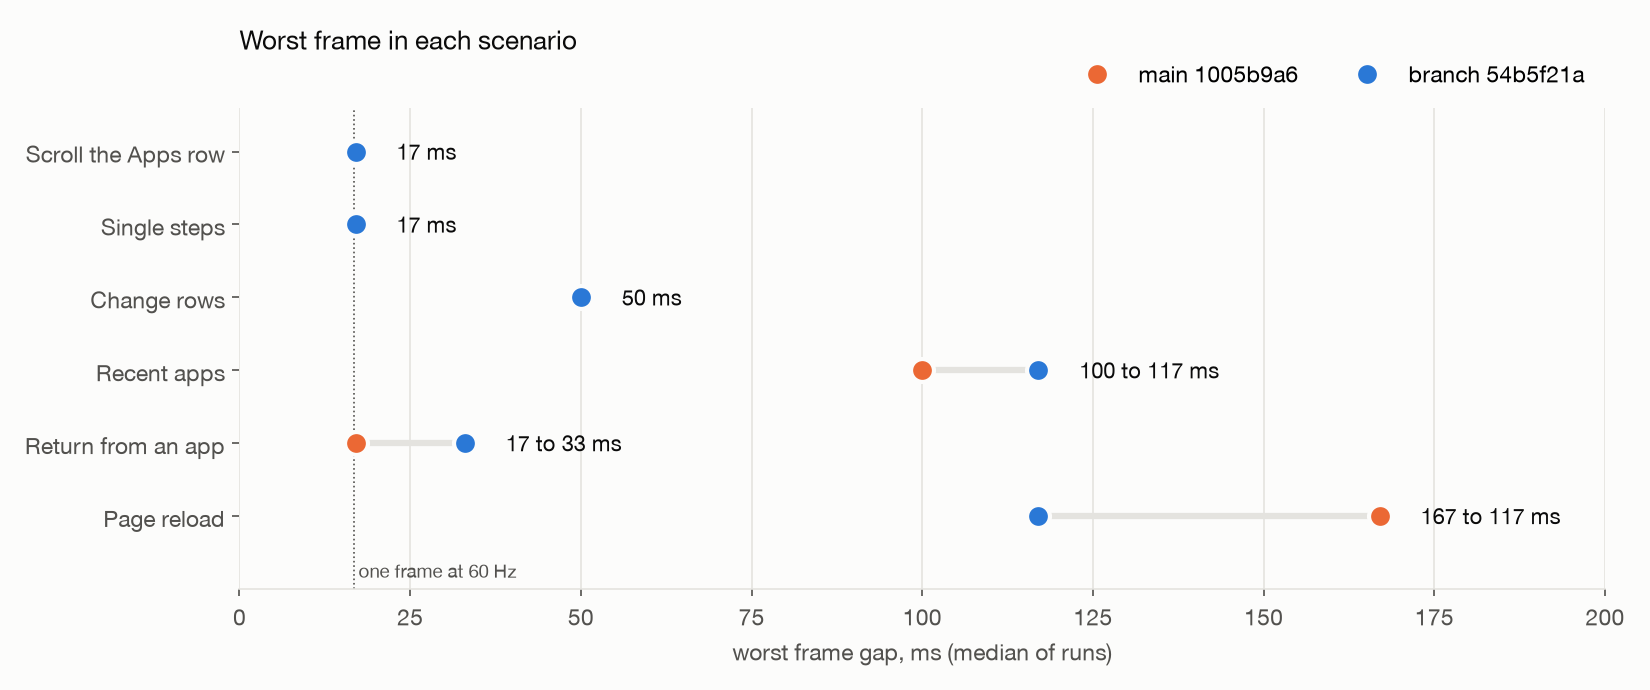
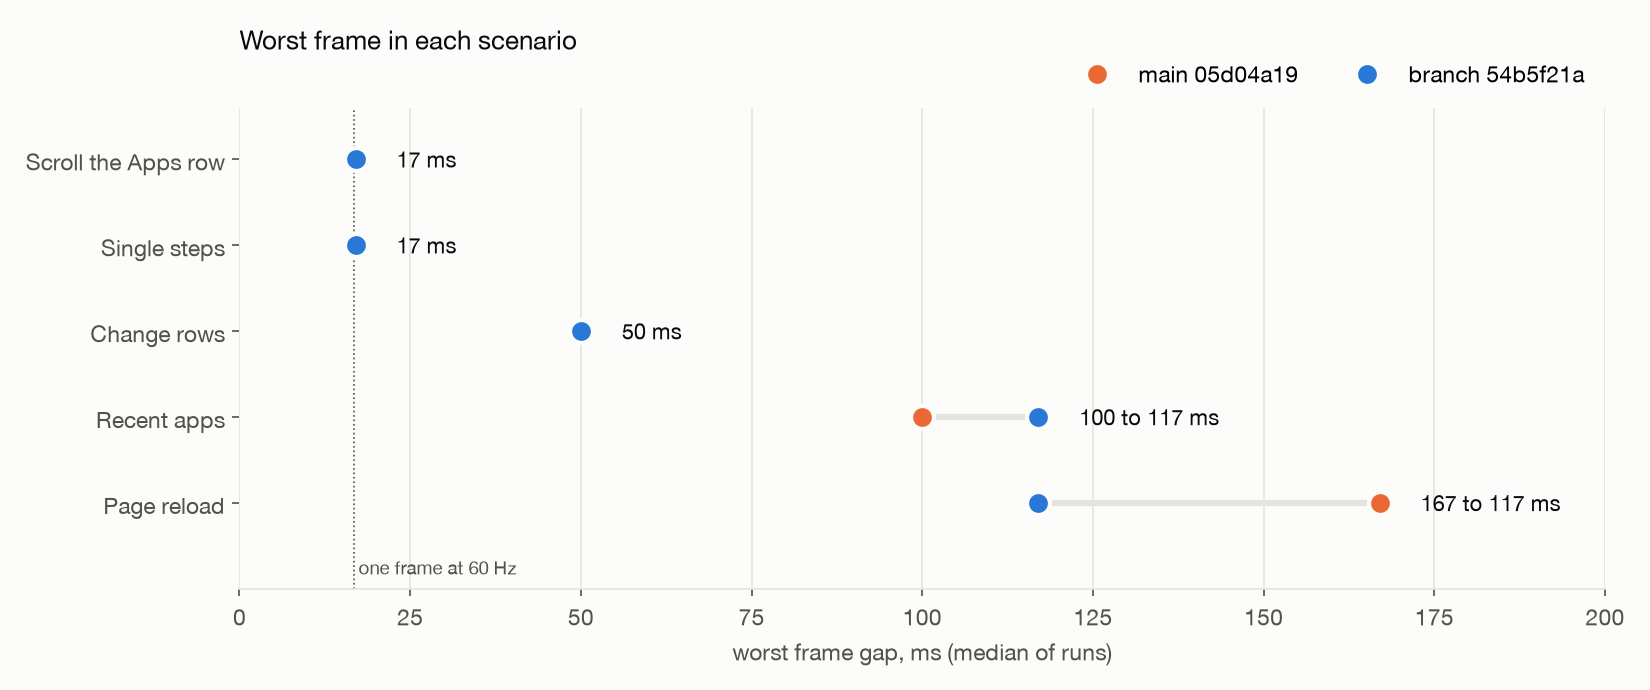
Return runs left out; functional before and after on the TV; the playlist's name blacked out
Claude-Session: https://claude.ai/code/session_01QHnVP81921LPuzdswiP7pV

diff --git a/bench_charts.py b/bench_charts.py
@@ -35,10 +35,6 @@ def boot_ms(r):
 
 # (title, unit, scenario, extractor)
 PANELS = [
-    ('Catalogue reply on a return', 'ms', 'return', req_max('/api/home/catalogue')),
-    ('Channel guide reply on a return', 'ms', 'return', req_max('/api/home/guide')),
-    ('Row redraws per return', 'render() calls', 'return', fn_n('render')),
-    ('Time redrawing rows per return', 'ms', 'return', fn_ms('render')),
     ('Rows rebuilt after a page reload', 'rows replaced', 'cold', lambda r: r['rowsReplaced']),
     ('Longest task after a page reload', 'ms', 'cold', longest),
     ('Worst frame after a page reload', 'ms', 'cold', lambda r: r['worst']),
@@ -46,7 +42,7 @@ PANELS = [
 ]
 
 def headline(b, a, lb, la, out):
-    fig, axes = plt.subplots(2, 4, figsize=(16, 8.4))
+    fig, axes = plt.subplots(1, 4, figsize=(16, 4.8))
     for ax, (title, unit, sc, fn) in zip(axes.flat, PANELS):
         vb, va = values(b, sc, fn), values(a, sc, fn)
         mb, ma = (st.median(vb) if vb else 0), (st.median(va) if va else 0)
@@ -108,7 +104,8 @@ def histogram(b, a, lb, la, scenarios, out, title):
     fig.savefig(out, dpi=150)
 
 def worst(b, a, lb, la, out):
-    scs = ['scroll', 'steps', 'rows', 'recents', 'return', 'cold']
+    # Return runs are left out: the browser was not always in front (see README).
+    scs = ['scroll', 'steps', 'rows', 'recents', 'cold']
     names = {'scroll': 'Scroll the Apps row', 'steps': 'Single steps', 'rows': 'Change rows', 'recents': 'Recent apps',
              'return': 'Return from an app', 'cold': 'Page reload'}
     fig, ax = plt.subplots(figsize=(11, 4.6))

diff --git a/bench_table.py b/bench_table.py
@@ -5,13 +5,6 @@ def load(d): return json.loads(subprocess.check_output([sys.executable, os.path.
 b, a = load(sys.argv[1]), load(sys.argv[2])
 def req(name): return lambda r: r['req'][name]['max'] if name in r['req'] else None
 ROWS = [
-    ('Return', 'return', 'Catalogue reply, ms', req('/api/home/catalogue')),
-    ('Return', 'return', 'Channel guide reply, ms', req('/api/home/guide')),
-    ('Return', 'return', 'What is on (/now) reply, ms', req('/api/home/now')),
-    ('Return', 'return', 'Row redraws (render calls)', lambda r: r['fn'].get('render', {}).get('n', 0)),
-    ('Return', 'return', 'Time in render, ms', lambda r: round(r['fn']['render']['ms']) if 'render' in r['fn'] else 0),
-    ('Return', 'return', 'luna-send started (all, background included)', lambda r: r['lunaApp']),
-    ('Return', 'return', 'Worst frame, ms', lambda r: r['worst']),
     ('Cold start', 'cold', 'Navigation to first frame, ms', lambda r: r['boot']['firstFrame'] - r['boot']['navStart'] if r['boot'] else None),
     ('Cold start', 'cold', 'First render, ms', lambda r: r['boot']['firstRenderMs'] if r['boot'] else None),
     ('Cold start', 'cold', 'Rows replaced after first paint', lambda r: r['rowsReplaced']),

diff --git a/bench_parse.py b/bench_parse.py
@@ -15,6 +15,7 @@ def parse(path):
             run['forks'] = int(line.split()[1])
         elif line.startswith('frames '):
             f = json.loads(line[7:])
+            run.setdefault('windows', []).append(f.get('frames', 0))
             for k in ('frames', 'over33', 'over100', 'rebuilds'):
                 run[k] += f.get(k, 0)
             run['rowsReplaced'] += f['rowsReplaced'] if 'rowsReplaced' in f else f.get('rebuilds', 0) * ROWS
@@ -52,6 +53,11 @@ def main(d):
             continue
         if m.group(1) == 'return' and not r['req'].get('/api/home/catalogue'):
             sys.stderr.write('skipped %s: no return seen\n' % name)
+            continue
+        # Home hidden behind the browser draws next to nothing: a run in which
+        # every 5 s drew over 100 frames never left Home.
+        if m.group(1) == 'return' and min(r.get('windows') or [0]) > 100:
+            sys.stderr.write('skipped %s: Home never hidden\n' % name)
             continue
         if m.group(1) == 'cold' and not r['boot']:
             sys.stderr.write('skipped %s: no boot marks\n' % name)

diff --git a/functional/pairs.py b/functional/pairs.py
@@ -1,0 +1,18 @@
+import sys, os
+from PIL import Image, ImageDraw, ImageFont
+a, b, out = sys.argv[1:4]
+steps = [s.split('=', 1) for s in sys.argv[4:]]
+W, H, GAP, HEAD = 800, 450, 20, 52
+f = ImageFont.truetype('/System/Library/Fonts/Helvetica.ttc', 24)
+fb = ImageFont.truetype('/System/Library/Fonts/Helvetica.ttc', 28)
+sheet = Image.new('RGB', (W * 2 + GAP * 3, 60 + (H + HEAD) * len(steps)), (255, 255, 255))
+d = ImageDraw.Draw(sheet)
+d.text((GAP, 16), 'main (1005b9a6 + measuring)', fill=(0, 0, 0), font=fb)
+d.text((GAP * 2 + W, 16), 'this branch', fill=(0, 0, 0), font=fb)
+for i, (name, label) in enumerate(steps):
+    y = 60 + i * (H + HEAD)
+    d.text((GAP, y + 14), label, fill=(60, 60, 60), font=f)
+    for j, src in enumerate((a, b)):
+        sheet.paste(Image.open(os.path.join(src, name + '.jpg')).resize((W, H)), (GAP + j * (W + GAP), y + HEAD))
+sheet.save(out, quality=82)
+print(sheet.size, os.path.getsize(out))

diff --git a/README.md b/README.md
@@ -1,31 +1,52 @@
-# Glasshouse Home performance: benchmark data
+# Glasshouse Home performance: benchmark data and screenshots
 
 Charts, screenshots and raw runs for the Glasshouse Home performance pull
-request. Everything was measured on the office G3 (OLED55G36LA, webOS 9.2.2)
-on 26 November 2026, all `main` runs first and then the branch's (scenarios interleaved within each side), with `scripts/tv.sh <tv> frames <scenario>` from the
-pull request's branch.
+request, all from the office G3 (OLED55G36LA, webOS 9.2.2) on 26 November 2026.
+
+## Frame timing
+
+Measured with `scripts/tv.sh <tv> frames <scenario>`. All `main` runs came first, then the branch's, with the scenarios interleaved within each side.
 
 | Side | Commit on the TV | What it is |
 |---|---|---|
 | main | `05d04a19` | `main` at `1005b9a6` (v0.160.0) plus the measuring commits only: no change to how Home behaves |
-| branch | `54b5f21a` | the pull request's changes; its server and page code are the same as the pull request's head |
-| earlier branch | `02ce6be4` | an earlier state of the branch, before the guide and media-server fixes, kept for reference |
+| branch | `54b5f21a` | the pull request's changes before the review fixes that followed (see the pull request) |
+| earlier branch | `02ce6be4` | an earlier state of the branch, kept for reference |
 
 "Cold start" in the raw files is the `cold` scenario: the page reloaded with the server already running, not a TV boot. `rowsReplaced` on main is derived as rebuilds × 5 sections, since that build replaced every row on each rebuild and had no counter.
 
-Each `bench:` line in `raw/` records the build the TV reported (`build.json`:
-version, commit, dirty), its webOS and its load average.
+**The `return` runs are not used.** That scenario launched the web browser over SSH without a terminal, which on this TV can be dropped with no error, and then pressed Home after a fixed 20 s.
+- In 1 of the 5 main runs, Home was never hidden.
+- In the others, it was hidden only in the last seconds before Home was pressed.
 
-- `raw/<side>/<scenario>-<n>.txt`: one run each, five per scenario (rows on
-  main has ten; runs 1 to 3 got none of their keys and are left out).
-- `bench_parse.py` reads a folder of runs, `bench_table.py` prints the table
-  of medians (`bench-table.md`), and `bench_charts.py` draws the charts:
+The raw files are kept, but the table and charts leave them out. `tv.sh` now launches with a terminal and waits for the browser to be in front.
+
+Each `bench:` line in `raw/` records the build the TV reported (`build.json`: version, commit, dirty), its webOS and its load average.
+
+- `raw/<side>/<scenario>-<n>.txt`: one run each, five per scenario. Rows on main has ten runs: runs 1 to 3 got none of their keys and are left out.
+- `bench_parse.py` reads a folder of runs. `bench_table.py` prints the table of medians (`bench-table.md`), and `bench_charts.py` draws the charts:
 
 ```bash
 python3 bench_table.py raw/main-1005b9a6 raw/branch-54b5f21a
 python3 bench_charts.py raw/main-1005b9a6 raw/branch-54b5f21a "main 1005b9a6" "branch 54b5f21a" out/
 ```
 
-`bench_charts.py` needs matplotlib. A run whose keys did not all reach the TV,
-a return with no catalogue request, or a cold start with no start marks is
-skipped, and the scripts say which.
+`bench_charts.py` needs matplotlib. The scripts skip these runs and say which:
+- a run whose keys did not all reach the TV;
+- a return with no catalogue request, or in which Home was never hidden;
+- a cold start with no start marks.
+
+## Functional comparison
+
+`functional/<side>/` holds the same 23 steps on each build, run by `functional/funcheck.sh`. `home-functional-compare.jpg` puts nine of them side by side.
+
+| Side | Commit on the TV |
+|---|---|
+| main | `a9127c6b`: `1005b9a6` plus the measuring commits plus one reporting the page's script errors in the trace |
+| branch | `e5ecb6b7`: the pull request with the review fixes. Its code is the same as the head's; only comments and docs differ |
+
+Every capture went through `functional/shot.sh`. It reads the power state and the app in front before and after the capture, and refuses the picture unless both say Active and Glasshouse Home, so a screen saver or another app cannot pass as Home.
+
+Step 17d (Home pressed just after a return, with the player open) and its follow-up are left out on both sides. The keys sent within about 0.6 s of the return did not reach the page, and OK opened YouTube instead, on both builds.
+
+The playlist's name is blacked out on the Internet TV row.

diff --git a/bench-table.md b/bench-table.md
@@ -1,12 +1,5 @@
 | Scenario | Measure | main | this branch |
 |---|---|---|---|
-| Return | Catalogue reply, ms | 512 (504 to 657) | 38 (34 to 56) |
-| Return | Channel guide reply, ms | 526 (520 to 533) | 20 (17 to 24) |
-| Return | What is on (/now) reply, ms | 18 (13 to 26) | 49 (20 to 54) |
-| Return | Row redraws (render calls) | 4 (4 to 6) | 3 (2 to 4) |
-| Return | Time in render, ms | 46 (44 to 156) | 50 (22 to 127) |
-| Return | luna-send started (all, background included) | 24 (23 to 26) | 22 (13 to 23) |
-| Return | Worst frame, ms | 17 (17 to 100) | 33 (17 to 83) |
 | Cold start | Navigation to first frame, ms | 360 (333 to 530) | 320 (307 to 367) |
 | Cold start | First render, ms | 104 (92 to 112) | 102 (93 to 128) |
 | Cold start | Rows replaced after first paint | 10 (5 to 10) | 2 |
@@ -23,4 +16,4 @@
 | Scroll (36 keys) | applyFocus average, ms | 5.6 (5.4 to 5.6) | 5.3 (5.1 to 5.5) |
 | Single steps | Worst frame, ms | 17 (17 to 33) | 17 (17 to 67) |
 
-runs: scroll 5/5, steps 5/5, rows 7/5, recents 5/5, return 5/5, cold 5/5
+runs: scroll 5/5, steps 5/5, rows 7/5, recents 5/5, cold 5/5
